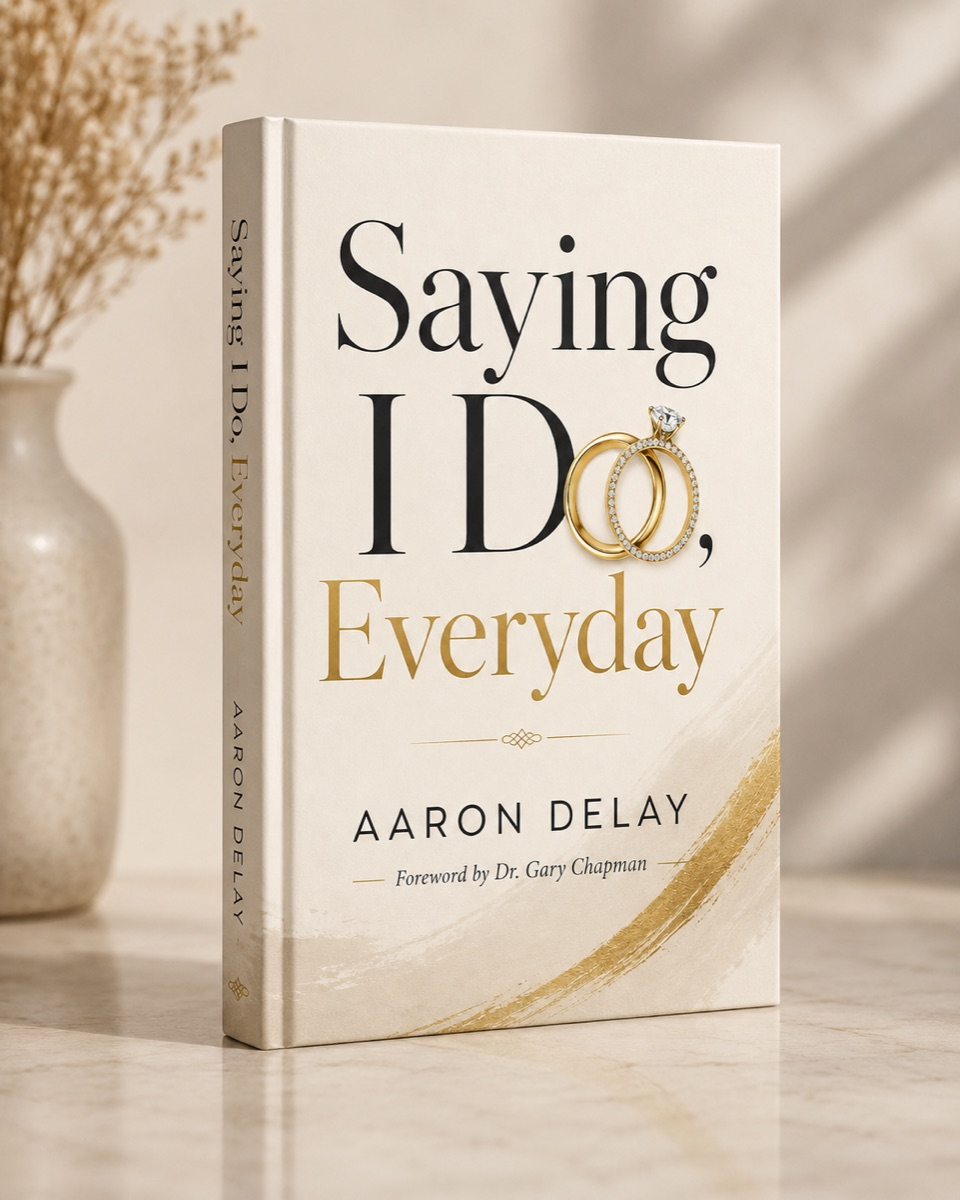
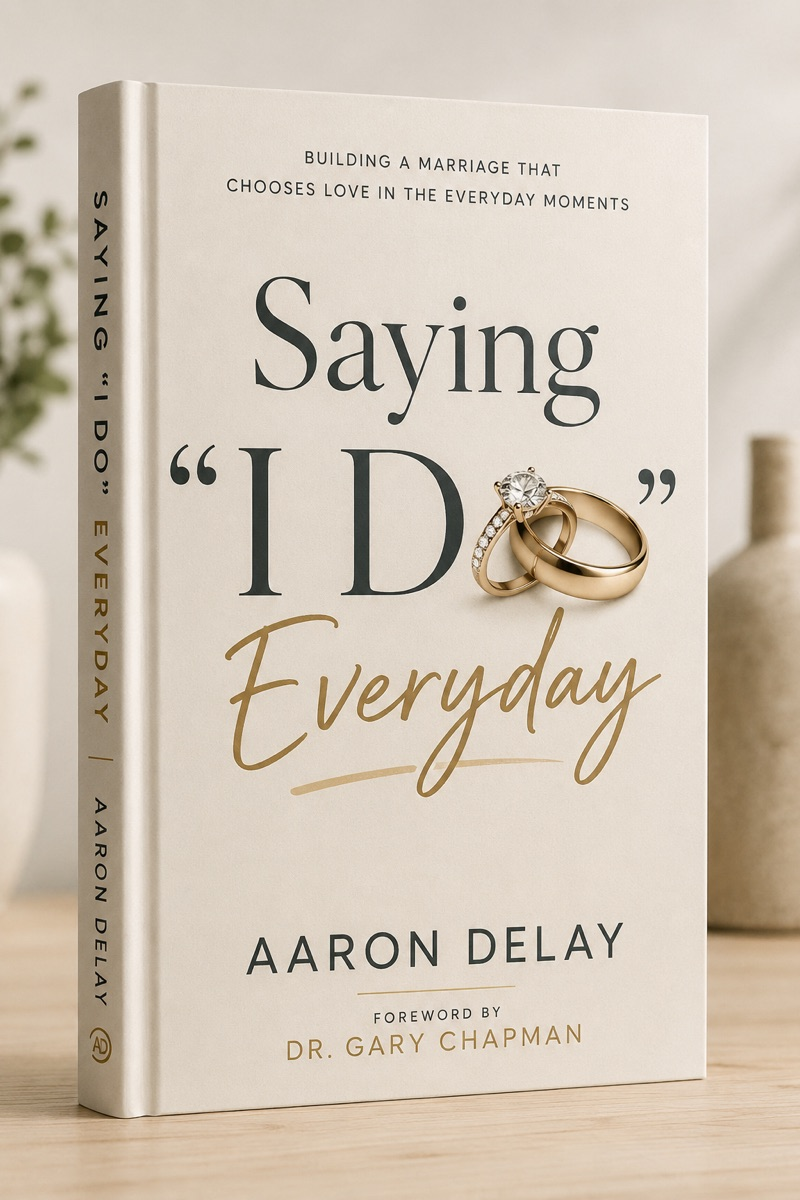
Swap in the final book cover
Replaces the earlier mockup with the version that carries the subtitle
and sets the title as Saying "I Do" Everyday, matching the punctuation
used everywhere else on the site and in the proposal.

New art is 2:3 rather than 4:5, so the width and height attributes move
to 800x1200 to keep the reserved space correct and avoid layout shift
while it loads. Alt text updated to describe the cover as it now reads.

diff --git a/index.html b/index.html
@@ -219,8 +219,8 @@
     <div class="book-split">
       <figure class="book-shot">
         <img src="/assets/img/book-cover.jpg"
-             alt="Saying I Do, Everyday by Aaron Delay, foreword by Dr. Gary Chapman. Hardback cover standing on a marble surface."
-             width="960" height="1200" loading="lazy" decoding="async">
+             alt="Saying “I Do” Everyday by Aaron Delay, foreword by Dr. Gary Chapman. Hardback cover standing on a wooden surface, subtitled Building a marriage that chooses love in the everyday moments."
+             width="800" height="1200" loading="lazy" decoding="async">
       </figure>
 
       <div>

diff --git a/book/index.html b/book/index.html
@@ -35,8 +35,8 @@
     <div class="product">
       <figure class="book-shot">
         <img src="/assets/img/book-cover.jpg"
-             alt="Saying I Do, Everyday by Aaron Delay, foreword by Dr. Gary Chapman. Hardback cover standing on a marble surface."
-             width="960" height="1200" loading="lazy" decoding="async">
+             alt="Saying “I Do” Everyday by Aaron Delay, foreword by Dr. Gary Chapman. Hardback cover standing on a wooden surface, subtitled Building a marriage that chooses love in the everyday moments."
+             width="800" height="1200" loading="lazy" decoding="async">
       </figure>
 
       <div>
